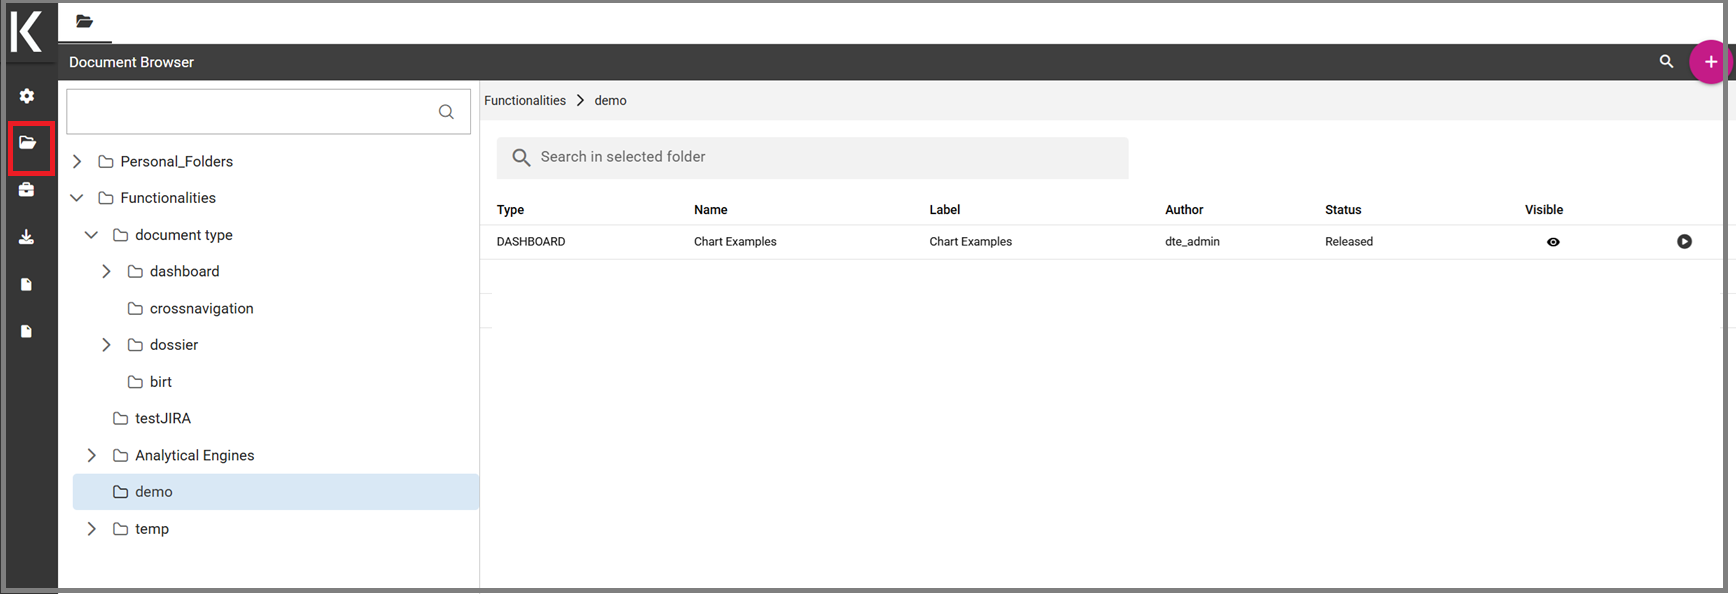
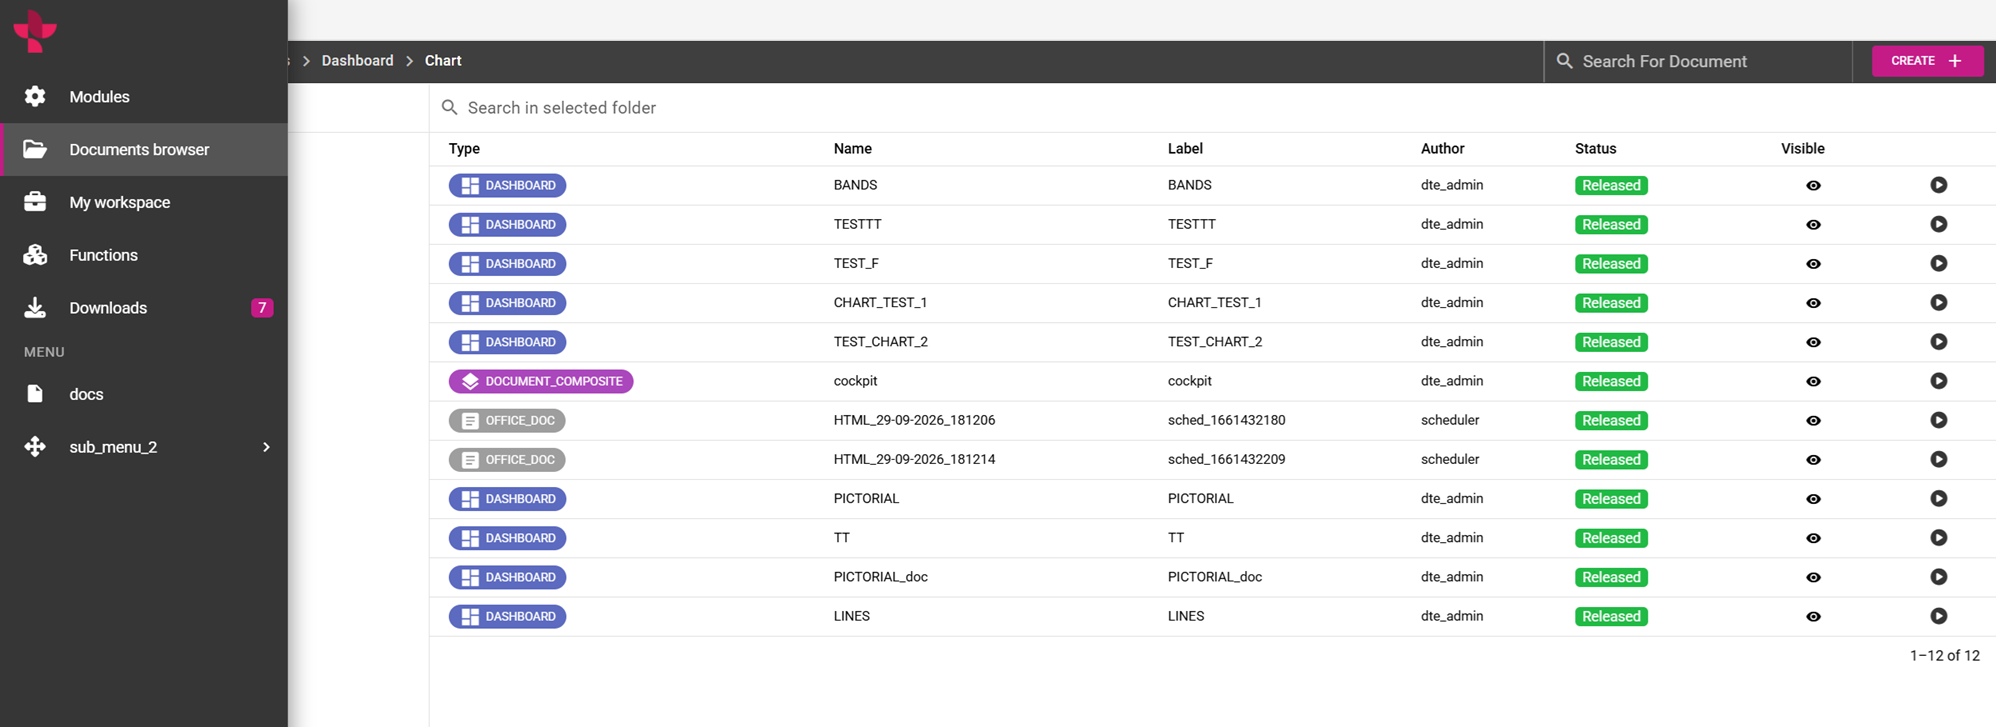
new_dasboard

diff --git a/chapter_3/security_management/document.rst b/chapter_3/security_management/document.rst
@@ -72,68 +72,29 @@ First of all click on **Documents Browser** from the BI functionalities menu, as
 
     Documents Browser functionality.
 
-By default the page is divided into two parts, as shown in figure below: in the left side there is the functionality tree representing the folder structure, while on the right you can see the list of all documents contained in the selected folder.
+By default, the page appears divided into two main sections, as shown in the figure above. The functionality tree on the left represents the folder structure, while the area on the right displays the documents available in the selected folder.
 
-.. figure:: media/image59.png
+For each document, the list shows information as type, name, label, author, status, and visibility. The *Play* button at the end of each row allows users to execute the corresponding document.
 
-    Documents Development section.
+Clicking anywhere else on a document row opens a side panel on the right side of the page. This panel provides additional information and metadata about the selected document, including its description, status, and creation date together
+with a panel that allow to perform the following operations:
 
-Each line shows the label, the name, the author and the type of the document, while the play button at the end of each row executes the document. Moreover, clicking on a line opens a side panel on the right of the page. Here you can see more metadata information such as the document description, the state and the creation date.
+- execute the document;
 
-.. figure:: media/image61.png
+- access document details;
 
-    Side panel.
+- clone the item;
 
-At the top of this side panel you find four button:
+- delete the document.
 
-- |image60| execute the document;
+To create a new document just click the *Create +* button with the following options: **Generic Document**, **Cockpit** for older versions of Knowage and **Dashboard** for newer versions such as this one. 
+Please note that not all of them are available in all Knowage products.
 
-.. |image60| image:: media/image62.png
-   :width: 30
+The below image shows the graphical interface for a *Dashboard* document.
 
-- |image61| access document details;
+.. figure:: media/dashboard.png
 
-.. |image61| image:: media/image63.png
-   :width: 30
-
-- |image62| clone the item;
-
-.. |image62| image:: media/image64.png
-   :width: 30
-
-- |image63| delete the document.
-
-.. |image63| image:: media/image65.png
-   :width: 30
-
-The figure below shows the detail panel of a document. On the left, document details are shown, including name, type, dataset and state. On the right, you can see the functionality tree and the document position. If you want to copy or move a document from a folder into another, check or uncheck the corresponding folders.
-
-.. _detailpanelofknowanalydoc:
-.. figure:: media/image66.png
-
-    Detail panel of an Analytical document.
-
-In order to create a new document you need to click on the red plus button in the top right corner of the **Document Development** page. The different types of documents that you can create are: **Cockpit** and **Generic Document**. Please note that not all of them are available in all Knowage products.
-
-To create a new generic document click the above-mentioned button and select **Generic Document**. You will be shown a window like the one in figure above but with empty fields, in order to allow you to define the document details.
-
-First of all, choose a label, a name and a description. It is important to point out that the label is the unique identifier of the document in Knowage Server. Then, select the type of document and the appropriate engine from the drop down menus, according to the document you are developing (see figure below).
-
-.. figure:: media/image67.png
-
-    Select Type and Engine for a new document.
-
-Now you have to select the datasource that will feed your document with data.
-
-.. figure:: media/image68.png
-
-    Selecting a datasource for the document.
-
-You can select the data source from the drop down menu. And select the dataset from the pop-up window and click save.
-
-Note that some types of document do not require the definition of a dataset at this point because they use embedded datasets.
-
-It is advisable to regularly save the document in this process, by clicking the related button save at the top right corner of the window.
+    New dashboard.
 
 Document lifecycle
 ^^^^^^^^^^^^^^^^^^^^^^^^^^^^^^^^^^^^^^^^^^^^^^^^^^^^^^^^^^^^^^^^^^^^^^^^^^^^^^^^^^^^^^^^^^^^^^^^^^^^^^^^^^^^^^^^^^^^^^^^
